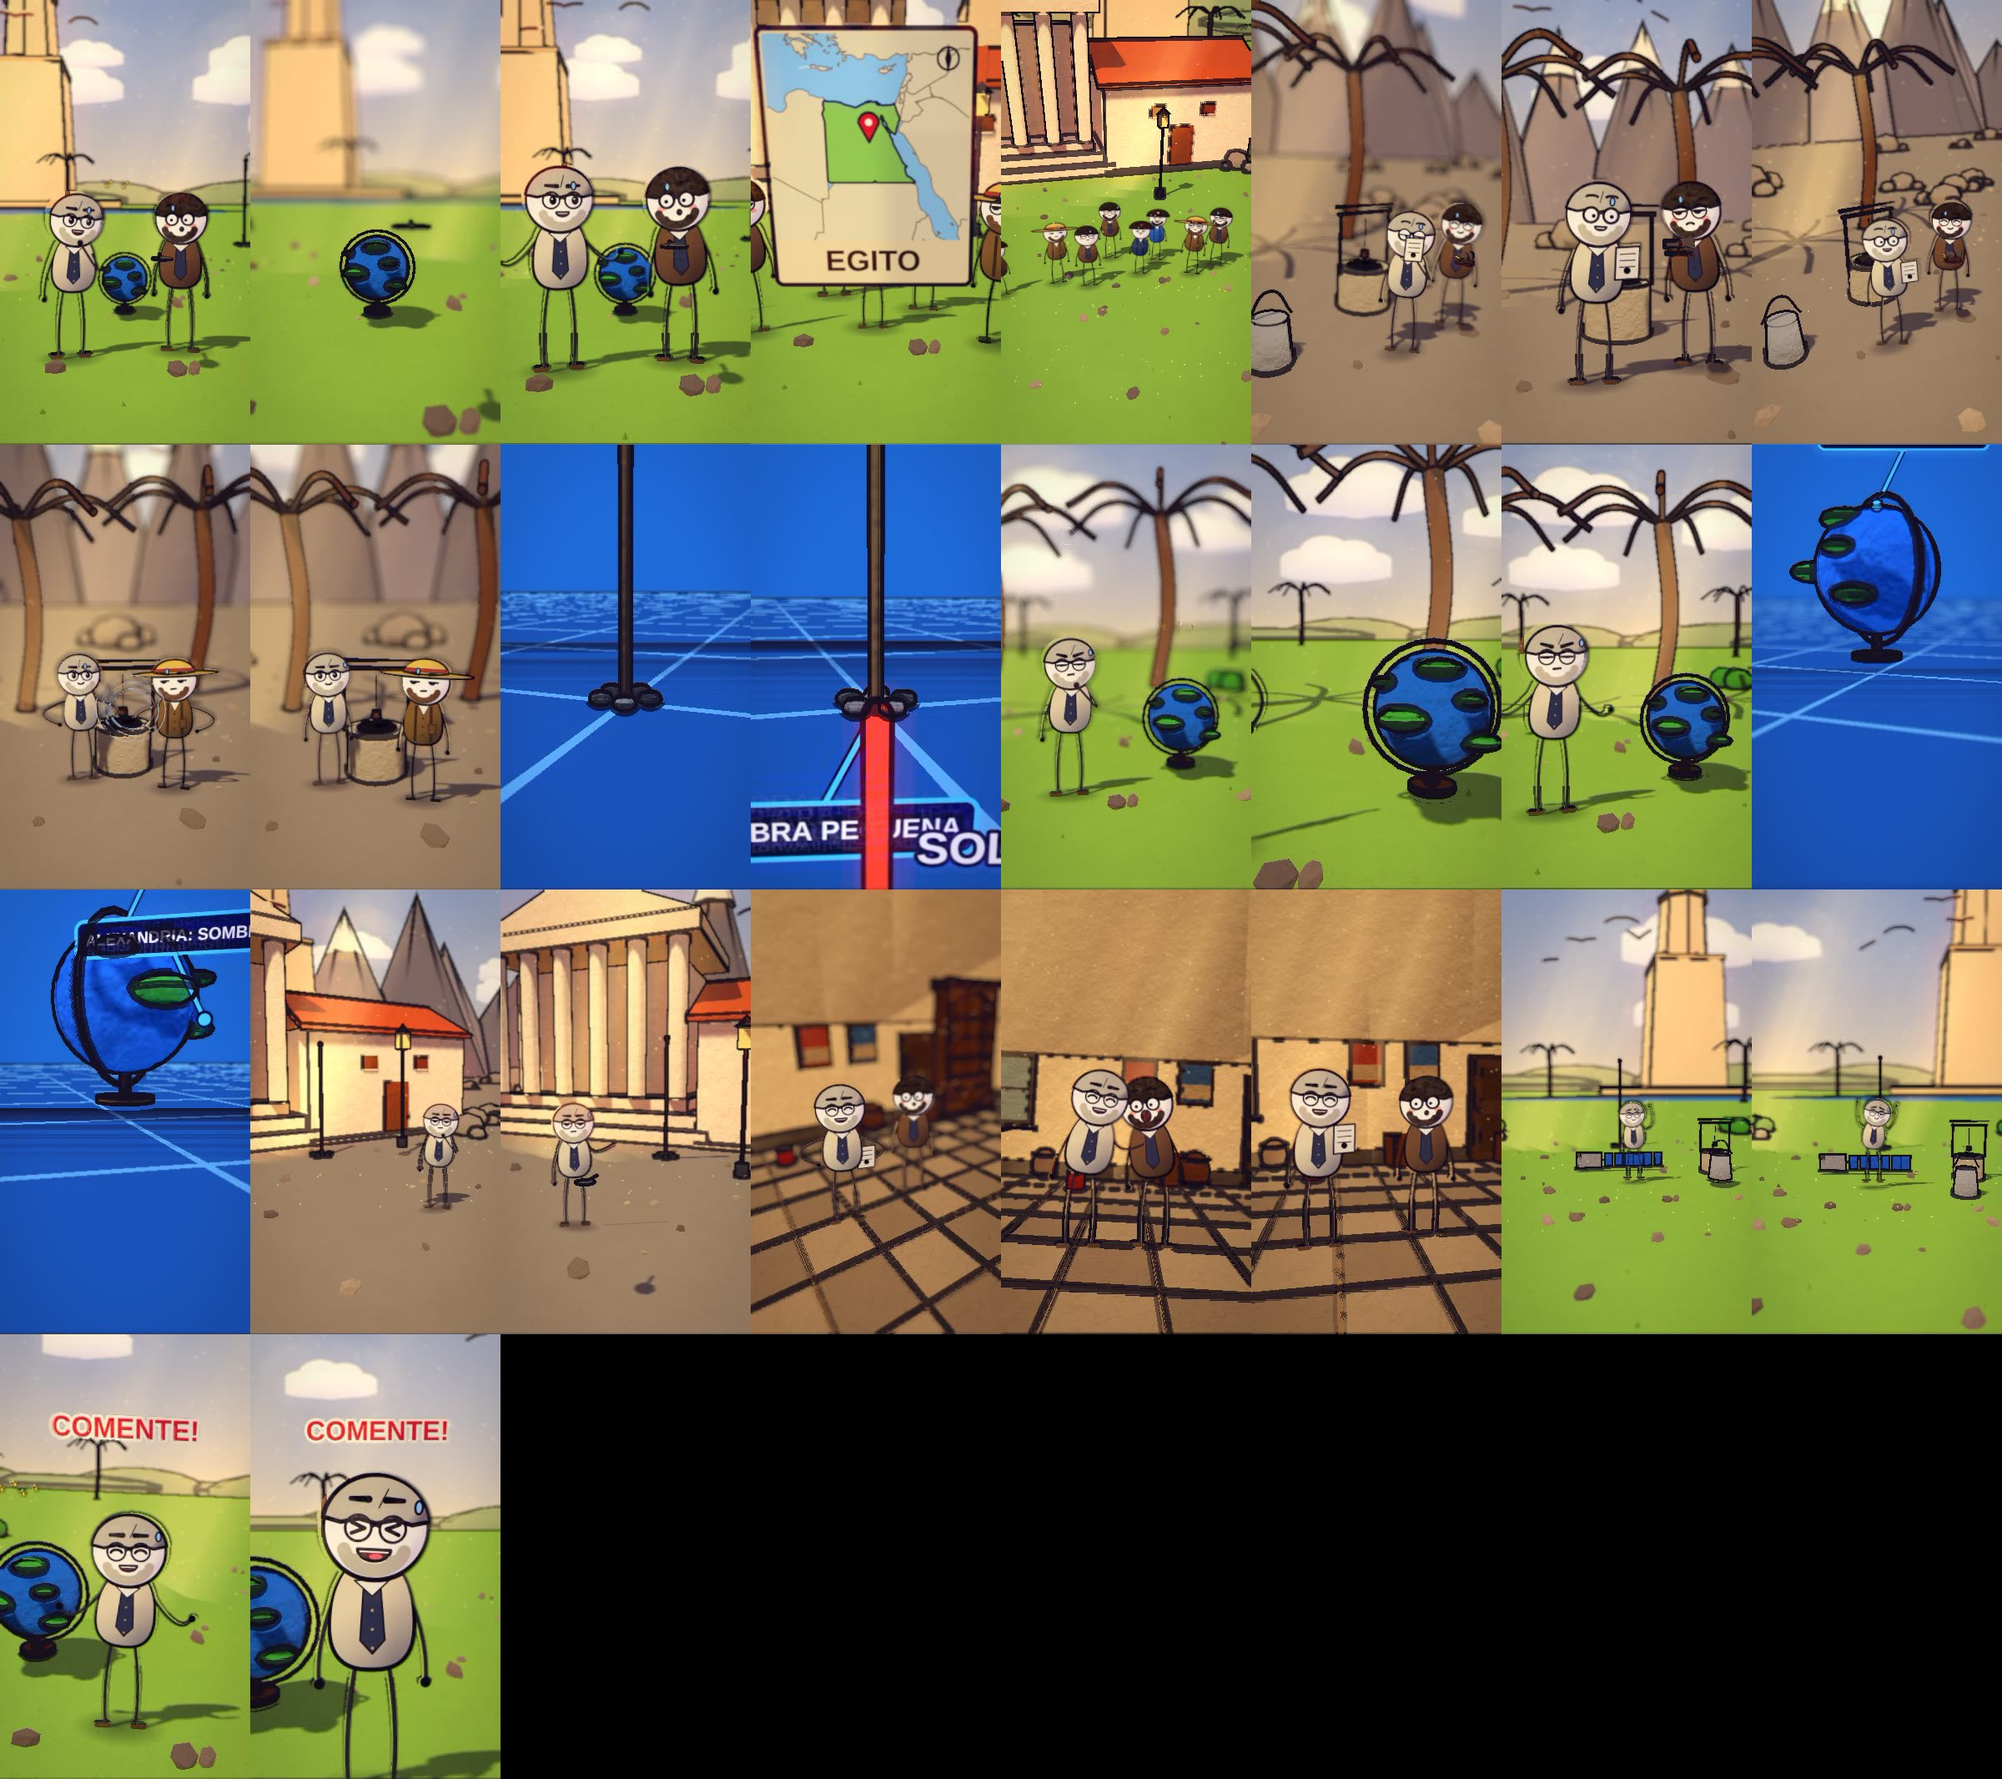
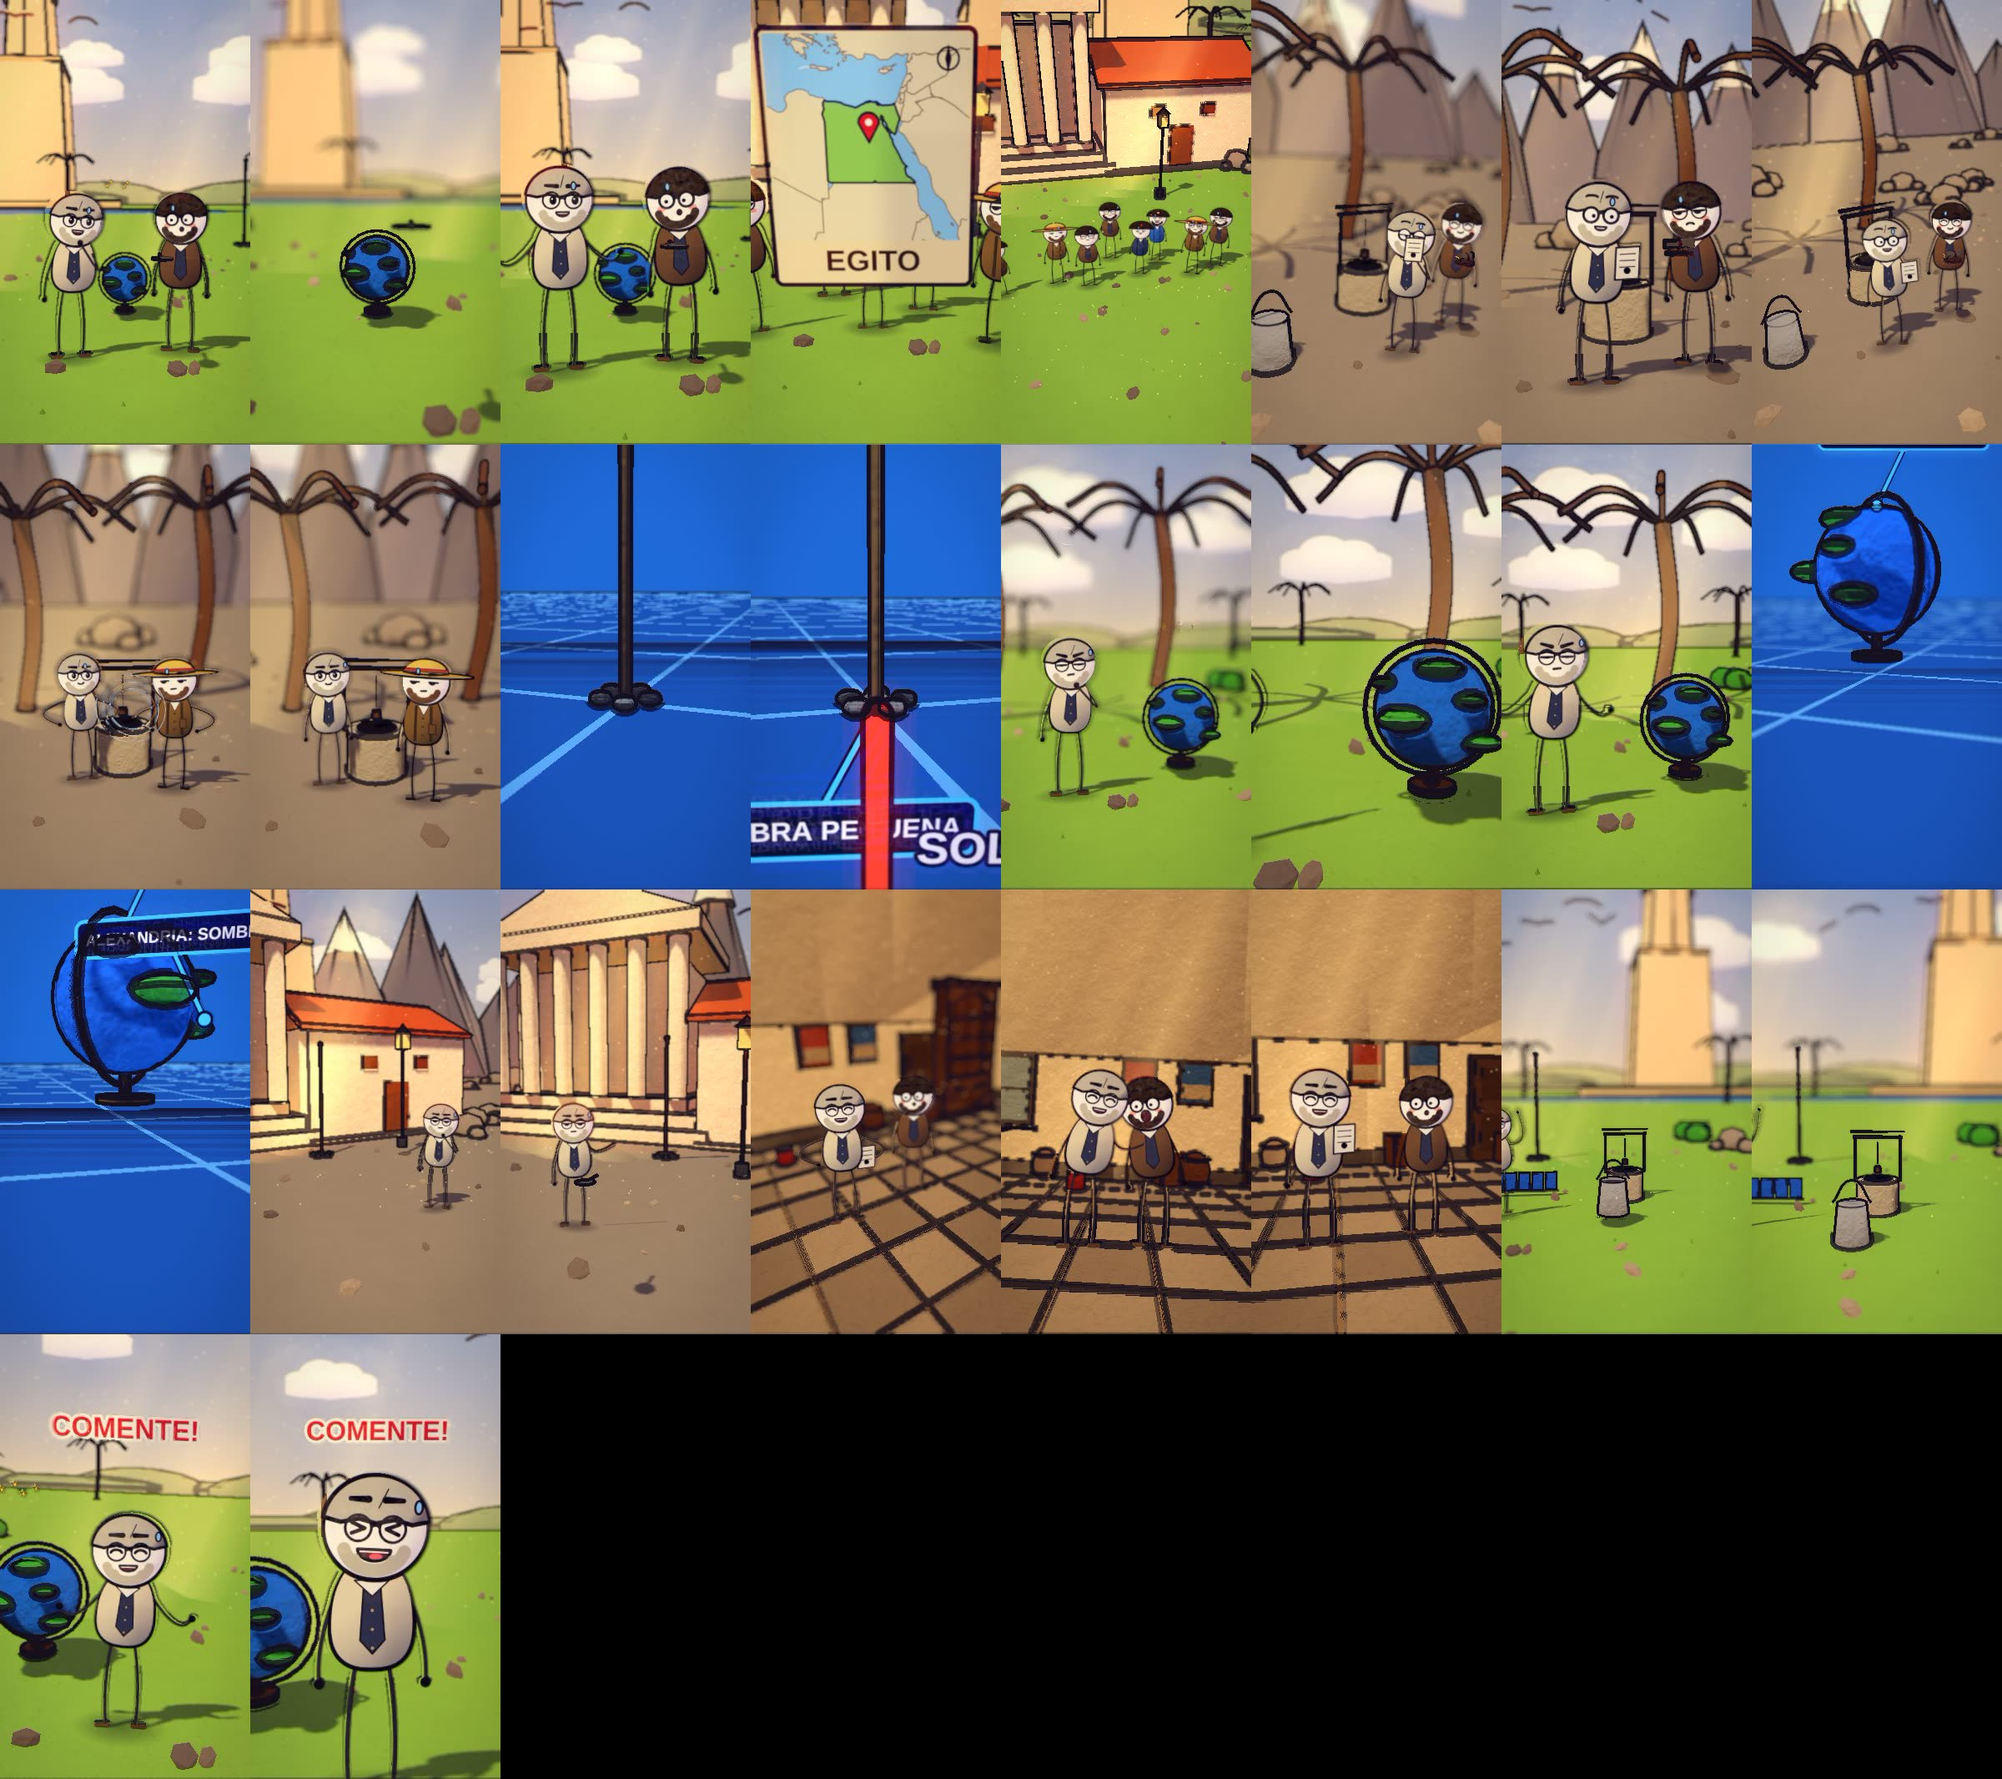
ckpt antes do sync automatico da ferramenta

Changed region(s): [[0.75, 0.4953, 1.0, 0.743]]

diff --git a/ferramenta-shorts/stories/eratostenes240/spec.js b/ferramenta-shorts/stories/eratostenes240/spec.js
@@ -22,7 +22,7 @@ const SPEC = {
     { ...S('b6', A[6], Math.round(A[6] + (A[7] - 1 + 1 - (A[6])) * 0.5) - 1, X_loc_estudio, "explica", { actors: [], props: [{ asset: "kit/globe", at: [X_loc_estudio, -2.0], s: 1.26, y: (f) => DK + 0.02, ry: 0.0, spinY: 0.55, drop: false }], fx: [{ k: 'rotulo', a: WS(97, -3), b: A[7] - 1, prop: 0, off: [0, 1.59, 0], text: "SIENA: SEM SOMBRA", lado: 1, s: 2.0 }, { k: 'rotulo', a: WS(99, -3), b: A[7] - 1, prop: 0, off: [0, 0.795, 0.688], text: "ALEXANDRIA: SOMBRA", lado: -1, s: 2.0 }, { k: 'rotulo', a: WS(109, -3), b: A[7] - 1, prop: 0, off: [0, 0.095, 0], text: "TERRA CURVA", lado: 1, inv: true, s: 2.0 }], hero: { hero: 'none', explica: true }, trans: 'dissolve' }), cam: [{ f: A[6], at: [X_loc_estudio + 0.0, DK + 0.102, -2.0], d: 7.16, az: 26, el: 10, fov: 44 }, { f: Math.round(A[6] + (A[7] - 1 + 1 - (A[6])) * 0.5) - 1, at: [X_loc_estudio + 0.0, DK + 0.102, -2.0], d: 6.87, az: 12, el: 8, fov: 44 }], nocut: true, vary: false, creep: 0 }, { ...S('b6_x', Math.round(A[6] + (A[7] - 1 + 1 - (A[6])) * 0.5), A[7] - 1, X_loc_estudio, "explica", { actors: [], props: [{ asset: "kit/globe", at: [X_loc_estudio, -2.0], s: 1.26, y: (f) => DK + 0.02, ry: 0.0, spinY: 0.55, drop: false }], fx: [{ k: 'rotulo', a: WS(97, -3), b: A[7] - 1, prop: 0, off: [0, 1.59, 0], text: "SIENA: SEM SOMBRA", lado: 1, s: 2.0 }, { k: 'rotulo', a: WS(99, -3), b: A[7] - 1, prop: 0, off: [0, 0.795, 0.688], text: "ALEXANDRIA: SOMBRA", lado: -1, s: 2.0 }, { k: 'rotulo', a: WS(109, -3), b: A[7] - 1, prop: 0, off: [0, 0.095, 0], text: "TERRA CURVA", lado: 1, inv: true, s: 2.0 }], hero: { hero: 'none', explica: true }, trans: 'cut' }), cam: [{ f: Math.round(A[6] + (A[7] - 1 + 1 - (A[6])) * 0.5), at: [X_loc_estudio + 0.0, DK + 0.102, -2.0], d: 6.3, az: -20, el: 6, fov: 44 }, { f: A[7] - 1, at: [X_loc_estudio + 0.0, DK + 0.102, -2.0], d: 5.73, az: -6, el: 5, fov: 44 }], nocut: true, vary: false, glide: true, glideN: 22, creep: 0 },
     { ...S('b7', A[7], A[8] - 1, X_loc_montanha, "desert", { h: 2.4, d0: 19.3, d1: 18.4, el: 6, fov: 46, az0: -38, az1: 32, cx: 0.0, cz: -3.6, hero: { hero: 'none', wide: true }, vary: false, nocut: true, trans: 'dissolve', actors: [_MA(pp(X_loc_montanha, "ERA", 0, 0.0, -0.4, "neutral"), { gests: [[WS(111) - 8, Math.max(WS(111) + 14, WS(117) - 5), 'think'], [WS(117) - 8, WS(117) + 46, 'point']] })], props: [{ asset: "kit/stick", at: [X_loc_montanha + 0.0, -8.0], s: 2.2, nocol: true, fixo: true, drop: false }, { asset: "kit/marco_alexandria", at: [X_loc_montanha + 20, -80], s: 1.0, drop: false }, { asset: "buildings/apartment", at: [X_loc_montanha + -6.0, -16.0], s: 1.2, drop: false }, { asset: "buildings/house_two", at: [X_loc_montanha + 6.0, -15.0], s: 1.2, drop: false }, { asset: "nature/lamppost", at: [X_loc_montanha + 3.2, -6.4], s: 1.2 }, { asset: "kit/lupa", a: Math.max(A[7] + 4, WS(111) - 30), b: A[8] - 1, at: [X_loc_montanha + 1.55, 2.0], y: DK + 1.9, s: 0.4, drop: false }], fx: [{ k: 'birds', a: A[7], b: A[8] - 1, at: [X_loc_montanha, DK + 6.0, -30], n: 5, dir: -1, off: 15 }] }), nocut: true },
     S('b8', A[8], A[9] - 1, X_hall, "study", { h: 2.3, d0: 7.3, d1: 6.86, fov: 57.0, az0: -13, az1: -7, vary: false, hero: { hero: 'any', frame: 'medium', minH: 0.07, main: 2 }, trans: 'dissolve', actors: [_MA(pp(X_hall, "ERA", 0, -1.0, 1.3, "grin", { over: { hold: "paper" }, inter: { k: 'lean', a: Math.round(A[8] + (A[9] - 1 - (A[8])) * 0.12), b: Math.round(A[8] + (A[9] - 1 - (A[8])) * 0.82), dir: 1, n: 2, ph: 0 } }), { gests: [[WS(128) - 8, WS(128) + 46, 'point']] }), pp(X_hall, "BIB", 0, 1.0, 1.0, "surprised", { pose: 'talk', inter: { k: 'lean', a: Math.round(A[8] + (A[9] - 1 - (A[8])) * 0.2), b: Math.round(A[8] + (A[9] - 1 - (A[8])) * 0.9), dir: -1, n: 2, ph: 3.14 } })], props: [{ asset: "kit/room_classico_stone", at: [X_hall, 0], s: 1, drop: false }, { asset: "mk/Bookcase_2", at: [X_hall + 7.4, -3.4], s: 2.4, drop: false }, { asset: "mk/Table_Large", at: [X_hall + -6.6, -1.6], s: 2.2, drop: false }, { asset: "mk/Chair_1", at: [X_hall + -4.4, -1.2], s: 2.2, drop: false }, { asset: "mk/Chest_Wood", at: [X_hall + 6.9, 0.6], s: 2.2, drop: false }] }),
-    { ...S('b9', A[9], A[10] - 1, X, "desert", { h: 2.4, d0: 19.3, d1: 18.4, el: 5, fov: 46, cx: 0.0, cz: -3.6, hero: { hero: 'none', wide: true }, vary: false, nocut: true, trans: 'dissolve', actors: [pp(X, "ERA", 0, 0.0, -0.4, "smug", { pose: 'cheer' })], props: [{ asset: "kit/stick", at: [X + 0.0, -8.0], s: 2.2, nocol: true, fixo: true, drop: false }, { asset: "kit/well", at: [X + 3.6, -2.0], s: 1.0, fixo: true, drop: false }, { asset: "kit/marco_alexandria", at: [X + 20, -80], s: 1.0, drop: false }, { asset: "tools/bucket", at: [X + 3.1, 0.2], s: 1.8 }, { asset: "kit/starlink_sat", at: [X + -1.7, -2.3], s: 1.0, drop: false }], fx: [{ k: 'birds', a: A[9], b: A[10] - 1, at: [X, DK + 4.5, -30], n: 4, dir: 1, off: 15 }] }), nocut: true },
+    { ...S('b9', A[9], A[10] - 1, X, "desert", { h: 2.8, d0: 13.0, d1: 11.0, el: 5, fov: 46, cx: 3.6, cz: -1.4, hero: { hero: 'none', wide: true }, vary: false, nocut: true, trans: 'dissolve', actors: [pp(X, "ERA", 0, 0.0, -0.4, "smug", { pose: 'cheer' })], props: [{ asset: "kit/stick", at: [X + 0.0, -8.0], s: 2.2, nocol: true, fixo: true, drop: false }, { asset: "kit/well", at: [X + 3.6, -2.0], s: 1.0, fixo: true, drop: false }, { asset: "kit/marco_alexandria", at: [X + 20, -80], s: 1.0, drop: false }, { asset: "tools/bucket", at: [X + 3.1, 0.2], s: 1.8 }, { asset: "kit/starlink_sat", at: [X + -1.7, -2.3], s: 1.0, drop: false }], fx: [{ k: 'birds', a: A[9], b: A[10] - 1, at: [X, DK + 4.5, -30], n: 4, dir: 1, off: 15 }] }), nocut: true },
     S('b10', A[10], A[11] - 1, X, "desert", { h: 2.4, d0: 6.4, d1: 5.6, az0: -6, az1: 8, hero: { hero: 'any', frame: 'medium', minH: 0.07, main: 1 }, trans: 'dissolve', actors: [pp(X, "ERA", 0, 0.0, 1.3, "grin", { pose: 'talk' })], props: [{ asset: "kit/globe", at: [X + -1.7, -0.5], s: 1.3, drop: false }], fx: [{ k: 'stars', a: A[10] + 6, b: A[10] + 40, at: [X + -1.7, DK + 1.6, 0.0], s: 0.8 }, { k: 'birds', a: A[10], b: A[11] - 1, at: [X, DK + 6.0, -30], n: 5, dir: -1, off: 8 }, txt(X, WS(151, -2), A[11] - 1, "COMENTE!", '#d8282f', '#fff6e0', 4.6, { s: 1.5, up: 0.55 })] })
   ],
 };

diff --git a/ferramenta-shorts/web/story.js b/ferramenta-shorts/web/story.js
@@ -43,7 +43,7 @@ const SPEC = {
     { ...S('b6', A[6], Math.round(A[6] + (A[7] - 1 + 1 - (A[6])) * 0.5) - 1, X_loc_estudio, "explica", { actors: [], props: [{ asset: "kit/globe", at: [X_loc_estudio, -2.0], s: 1.26, y: (f) => DK + 0.02, ry: 0.0, spinY: 0.55, drop: false }], fx: [{ k: 'rotulo', a: WS(97, -3), b: A[7] - 1, prop: 0, off: [0, 1.59, 0], text: "SIENA: SEM SOMBRA", lado: 1, s: 2.0 }, { k: 'rotulo', a: WS(99, -3), b: A[7] - 1, prop: 0, off: [0, 0.795, 0.688], text: "ALEXANDRIA: SOMBRA", lado: -1, s: 2.0 }, { k: 'rotulo', a: WS(109, -3), b: A[7] - 1, prop: 0, off: [0, 0.095, 0], text: "TERRA CURVA", lado: 1, inv: true, s: 2.0 }], hero: { hero: 'none', explica: true }, trans: 'dissolve' }), cam: [{ f: A[6], at: [X_loc_estudio + 0.0, DK + 0.102, -2.0], d: 7.16, az: 26, el: 10, fov: 44 }, { f: Math.round(A[6] + (A[7] - 1 + 1 - (A[6])) * 0.5) - 1, at: [X_loc_estudio + 0.0, DK + 0.102, -2.0], d: 6.87, az: 12, el: 8, fov: 44 }], nocut: true, vary: false, creep: 0 }, { ...S('b6_x', Math.round(A[6] + (A[7] - 1 + 1 - (A[6])) * 0.5), A[7] - 1, X_loc_estudio, "explica", { actors: [], props: [{ asset: "kit/globe", at: [X_loc_estudio, -2.0], s: 1.26, y: (f) => DK + 0.02, ry: 0.0, spinY: 0.55, drop: false }], fx: [{ k: 'rotulo', a: WS(97, -3), b: A[7] - 1, prop: 0, off: [0, 1.59, 0], text: "SIENA: SEM SOMBRA", lado: 1, s: 2.0 }, { k: 'rotulo', a: WS(99, -3), b: A[7] - 1, prop: 0, off: [0, 0.795, 0.688], text: "ALEXANDRIA: SOMBRA", lado: -1, s: 2.0 }, { k: 'rotulo', a: WS(109, -3), b: A[7] - 1, prop: 0, off: [0, 0.095, 0], text: "TERRA CURVA", lado: 1, inv: true, s: 2.0 }], hero: { hero: 'none', explica: true }, trans: 'cut' }), cam: [{ f: Math.round(A[6] + (A[7] - 1 + 1 - (A[6])) * 0.5), at: [X_loc_estudio + 0.0, DK + 0.102, -2.0], d: 6.3, az: -20, el: 6, fov: 44 }, { f: A[7] - 1, at: [X_loc_estudio + 0.0, DK + 0.102, -2.0], d: 5.73, az: -6, el: 5, fov: 44 }], nocut: true, vary: false, glide: true, glideN: 22, creep: 0 },
     { ...S('b7', A[7], A[8] - 1, X_loc_montanha, "desert", { h: 2.4, d0: 19.3, d1: 18.4, el: 6, fov: 46, az0: -38, az1: 32, cx: 0.0, cz: -3.6, hero: { hero: 'none', wide: true }, vary: false, nocut: true, trans: 'dissolve', actors: [_MA(pp(X_loc_montanha, "ERA", 0, 0.0, -0.4, "neutral"), { gests: [[WS(111) - 8, Math.max(WS(111) + 14, WS(117) - 5), 'think'], [WS(117) - 8, WS(117) + 46, 'point']] })], props: [{ asset: "kit/stick", at: [X_loc_montanha + 0.0, -8.0], s: 2.2, nocol: true, fixo: true, drop: false }, { asset: "kit/marco_alexandria", at: [X_loc_montanha + 20, -80], s: 1.0, drop: false }, { asset: "buildings/apartment", at: [X_loc_montanha + -6.0, -16.0], s: 1.2, drop: false }, { asset: "buildings/house_two", at: [X_loc_montanha + 6.0, -15.0], s: 1.2, drop: false }, { asset: "nature/lamppost", at: [X_loc_montanha + 3.2, -6.4], s: 1.2 }, { asset: "kit/lupa", a: Math.max(A[7] + 4, WS(111) - 30), b: A[8] - 1, at: [X_loc_montanha + 1.55, 2.0], y: DK + 1.9, s: 0.4, drop: false }], fx: [{ k: 'birds', a: A[7], b: A[8] - 1, at: [X_loc_montanha, DK + 6.0, -30], n: 5, dir: -1, off: 15 }] }), nocut: true },
     S('b8', A[8], A[9] - 1, X_hall, "study", { h: 2.3, d0: 7.3, d1: 6.86, fov: 57.0, az0: -13, az1: -7, vary: false, hero: { hero: 'any', frame: 'medium', minH: 0.07, main: 2 }, trans: 'dissolve', actors: [_MA(pp(X_hall, "ERA", 0, -1.0, 1.3, "grin", { over: { hold: "paper" }, inter: { k: 'lean', a: Math.round(A[8] + (A[9] - 1 - (A[8])) * 0.12), b: Math.round(A[8] + (A[9] - 1 - (A[8])) * 0.82), dir: 1, n: 2, ph: 0 } }), { gests: [[WS(128) - 8, WS(128) + 46, 'point']] }), pp(X_hall, "BIB", 0, 1.0, 1.0, "surprised", { pose: 'talk', inter: { k: 'lean', a: Math.round(A[8] + (A[9] - 1 - (A[8])) * 0.2), b: Math.round(A[8] + (A[9] - 1 - (A[8])) * 0.9), dir: -1, n: 2, ph: 3.14 } })], props: [{ asset: "kit/room_classico_stone", at: [X_hall, 0], s: 1, drop: false }, { asset: "mk/Bookcase_2", at: [X_hall + 7.4, -3.4], s: 2.4, drop: false }, { asset: "mk/Table_Large", at: [X_hall + -6.6, -1.6], s: 2.2, drop: false }, { asset: "mk/Chair_1", at: [X_hall + -4.4, -1.2], s: 2.2, drop: false }, { asset: "mk/Chest_Wood", at: [X_hall + 6.9, 0.6], s: 2.2, drop: false }] }),
-    { ...S('b9', A[9], A[10] - 1, X, "desert", { h: 2.4, d0: 19.3, d1: 18.4, el: 5, fov: 46, cx: 0.0, cz: -3.6, hero: { hero: 'none', wide: true }, vary: false, nocut: true, trans: 'dissolve', actors: [pp(X, "ERA", 0, 0.0, -0.4, "smug", { pose: 'cheer' })], props: [{ asset: "kit/stick", at: [X + 0.0, -8.0], s: 2.2, nocol: true, fixo: true, drop: false }, { asset: "kit/well", at: [X + 3.6, -2.0], s: 1.0, fixo: true, drop: false }, { asset: "kit/marco_alexandria", at: [X + 20, -80], s: 1.0, drop: false }, { asset: "tools/bucket", at: [X + 3.1, 0.2], s: 1.8 }, { asset: "kit/starlink_sat", at: [X + -1.7, -2.3], s: 1.0, drop: false }], fx: [{ k: 'birds', a: A[9], b: A[10] - 1, at: [X, DK + 4.5, -30], n: 4, dir: 1, off: 15 }] }), nocut: true },
+    { ...S('b9', A[9], A[10] - 1, X, "desert", { h: 2.8, d0: 13.0, d1: 11.0, el: 5, fov: 46, cx: 3.6, cz: -1.4, hero: { hero: 'none', wide: true }, vary: false, nocut: true, trans: 'dissolve', actors: [pp(X, "ERA", 0, 0.0, -0.4, "smug", { pose: 'cheer' })], props: [{ asset: "kit/stick", at: [X + 0.0, -8.0], s: 2.2, nocol: true, fixo: true, drop: false }, { asset: "kit/well", at: [X + 3.6, -2.0], s: 1.0, fixo: true, drop: false }, { asset: "kit/marco_alexandria", at: [X + 20, -80], s: 1.0, drop: false }, { asset: "tools/bucket", at: [X + 3.1, 0.2], s: 1.8 }, { asset: "kit/starlink_sat", at: [X + -1.7, -2.3], s: 1.0, drop: false }], fx: [{ k: 'birds', a: A[9], b: A[10] - 1, at: [X, DK + 4.5, -30], n: 4, dir: 1, off: 15 }] }), nocut: true },
     S('b10', A[10], A[11] - 1, X, "desert", { h: 2.4, d0: 6.4, d1: 5.6, az0: -6, az1: 8, hero: { hero: 'any', frame: 'medium', minH: 0.07, main: 1 }, trans: 'dissolve', actors: [pp(X, "ERA", 0, 0.0, 1.3, "grin", { pose: 'talk' })], props: [{ asset: "kit/globe", at: [X + -1.7, -0.5], s: 1.3, drop: false }], fx: [{ k: 'stars', a: A[10] + 6, b: A[10] + 40, at: [X + -1.7, DK + 1.6, 0.0], s: 0.8 }, { k: 'birds', a: A[10], b: A[11] - 1, at: [X, DK + 6.0, -30], n: 5, dir: -1, off: 8 }, txt(X, WS(151, -2), A[11] - 1, "COMENTE!", '#d8282f', '#fff6e0', 4.6, { s: 1.5, up: 0.55 })] })
   ],
 };

diff --git a/ferramenta-shorts/stories/eratostenes240/autocorrecoes.md b/ferramenta-shorts/stories/eratostenes240/autocorrecoes.md
@@ -16,3 +16,6 @@
 
 ## 25/11 03:11 autocorrecao de visibilidade
 - b9: objeto "kit/well" saiu com 14% da altura da tela, a ficha de cena planejou 32% -> camera em plano aberto mirando o objeto (cx 3.6, cz -1.4), sem multidao na frente
+
+## 25/11 04:24 autocorrecao de visibilidade
+- b9: objeto "kit/well" saiu com 14% da altura da tela, a ficha de cena planejou 32% -> camera em plano aberto mirando o objeto (cx 3.6, cz -1.4), sem multidao na frente
